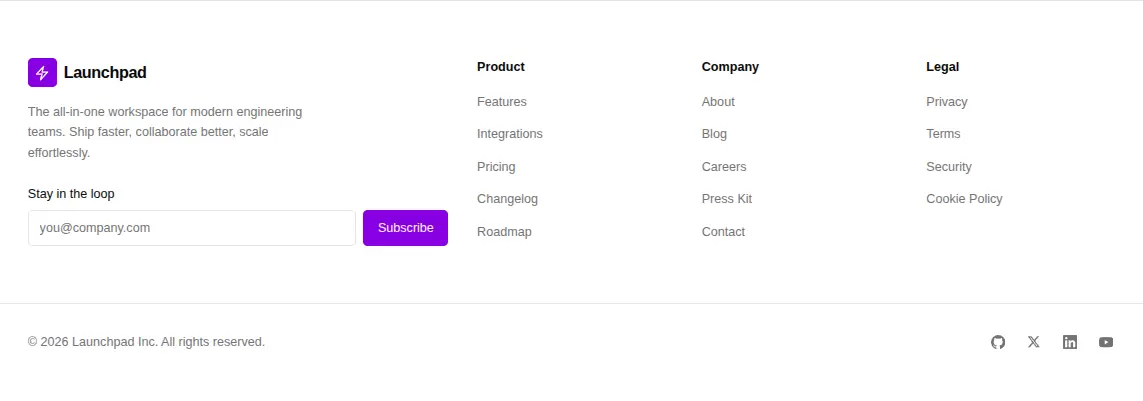
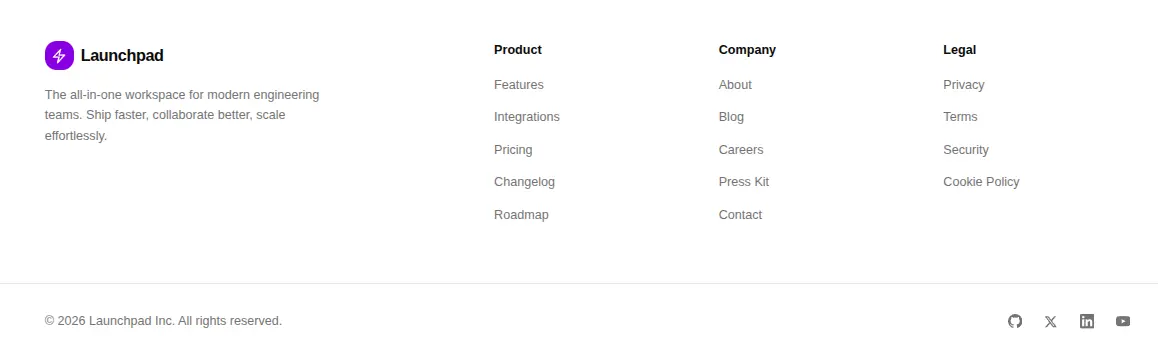
refactor: remove newsletter subscription form from saas-startup footer block

diff --git a/public/library-blocks/footer/saas-startup/saas-startup.html b/public/library-blocks/footer/saas-startup/saas-startup.html
@@ -23,20 +23,6 @@
         <p class="mt-4 max-w-xs text-sm leading-relaxed text-muted-foreground">
           The all-in-one workspace for modern engineering teams. Ship faster, collaborate better, scale effortlessly.
         </p>
-        <div chai-name="Newsletter" class="mt-6">
-          <p class="mb-2 text-sm font-medium text-foreground">Stay in the loop</p>
-          <div class="flex gap-2">
-            <input
-              type="email"
-              placeholder="you@company.com"
-              class="h-10 flex-1 rounded-md border border-input bg-background px-3 text-sm text-foreground placeholder:text-muted-foreground" />
-            <button
-              type="button"
-              class="inline-flex h-10 items-center justify-center rounded-md bg-primary px-4 text-sm font-medium text-primary-foreground transition-colors hover:bg-primary/90">
-              Subscribe
-            </button>
-          </div>
-        </div>
       </div>
 
       <div chai-name="Product Links">
